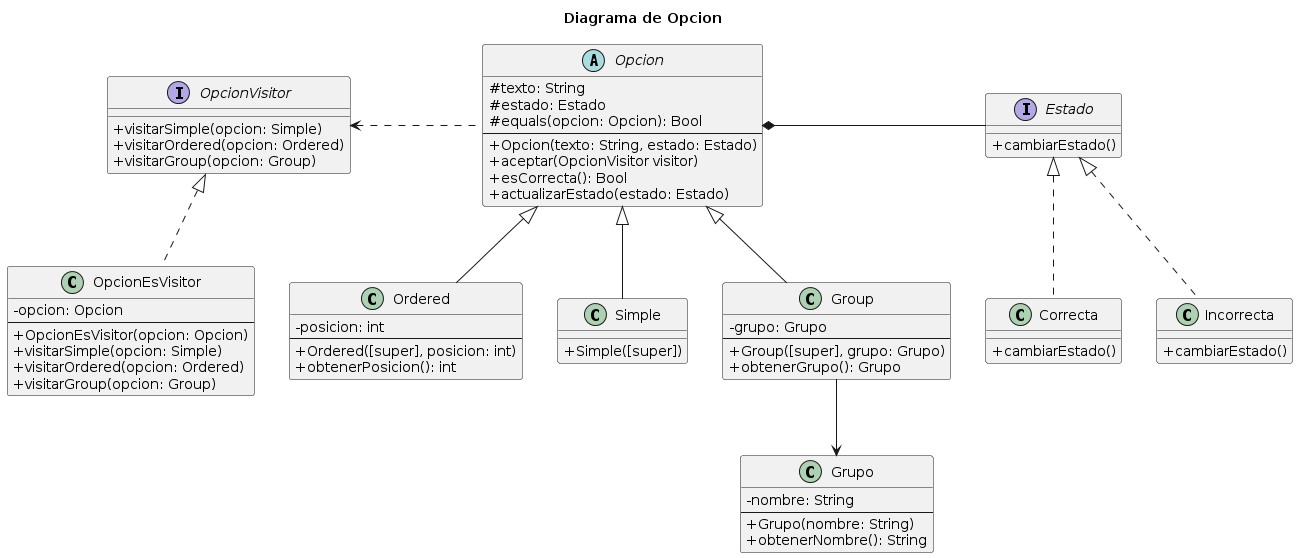
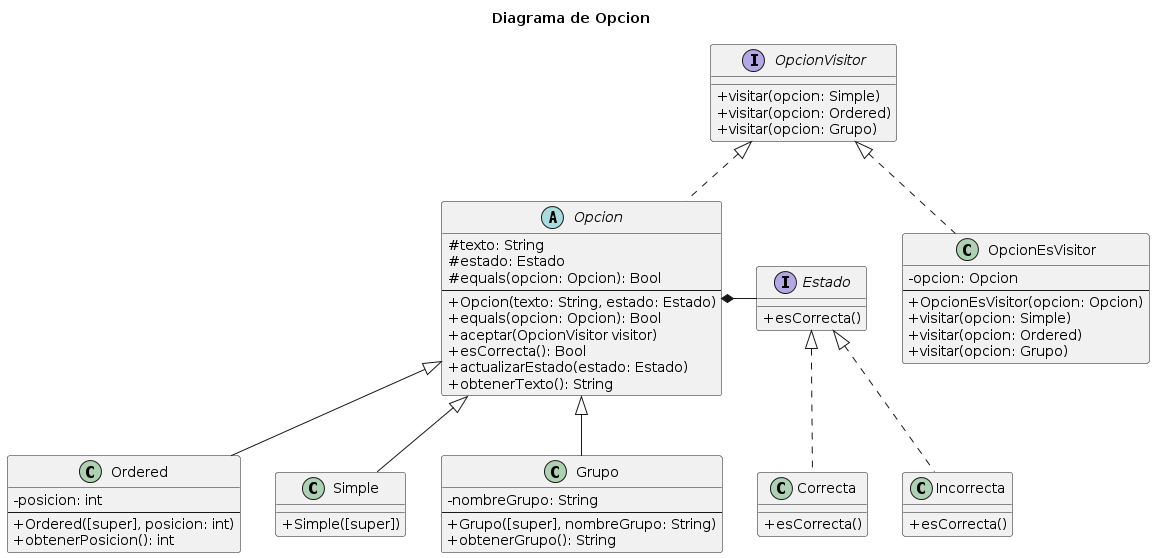
Agrego tests y diagramas

diff --git a/src/main/test/edu/fiuba/algo3/testEntrega2/OrderedTest.java b/src/main/test/edu/fiuba/algo3/testEntrega2/OrderedTest.java
@@ -1,23 +1,22 @@
-package edu.fiuba.algo3.testEntrega2.OpcionTest;
+package edu.fiuba.algo3.testEntrega2;
 
 import edu.fiuba.algo3.modelo.estado.Correcta;
 import edu.fiuba.algo3.modelo.estado.Incorrecta;
+import edu.fiuba.algo3.modelo.opcion.Grupo;
 import edu.fiuba.algo3.modelo.opcion.Opcion;
-import edu.fiuba.algo3.modelo.opcion.Simple;
 import edu.fiuba.algo3.modelo.opcion.Ordered;
 import org.junit.jupiter.api.BeforeEach;
 import org.junit.jupiter.api.Test;
-
 import static org.junit.jupiter.api.Assertions.*;
 
-public class SimpleTest {
+public class OrderedTest {
     private Opcion opcionCorrecta;
     private Opcion opcionIncorrecta;
 
     @BeforeEach
     public void setUpClass() {
-        opcionCorrecta = new Simple("Opcion 1", new Correcta());
-        opcionIncorrecta = new Simple("Opcion 1", new Incorrecta());
+        opcionCorrecta = new Ordered("Opcion 1", 1, new Correcta());
+        opcionIncorrecta = new Ordered("Opcion 1", 1, new Incorrecta());
     }
 
     @Test
@@ -39,6 +38,7 @@ public class SimpleTest {
 
         assertTrue(opcionIncorrecta.esCorrecta());
     }
+
     @Test
     public void test04CambiarElEstadoConOtraIncorrectaEstableceElEstadoIncorrecto() {
         opcionCorrecta.actualizarEstado(opcionCorrecta);
@@ -47,42 +47,42 @@ public class SimpleTest {
     }
 
     @Test
-    public void test05AceptaVisitaDeUnaOpcionSimpleConElMismoTextoYDevuelveTrue(){
+    public void test05AceptaVisitaDeUnaOpcionOrderedConLaMismaPosicionYDevuelveTrue(){
         //Arrange
-        Simple opcionVisitor = new Simple("Opcion 1", new Correcta());
+        Ordered opcionVisitor = new Ordered("Opcion 1", 1, new Correcta());
         //Assert
         assertTrue(opcionCorrecta.aceptar(opcionVisitor));
     }
 
     @Test
-    public void test06AceptaVisitaDeUnaOpcionSimpleConDistintoTextoYDevuelveFalse(){
+    public void test06AceptaVisitaDeUnaOpcionOrderedConDistintaPosicionYDevuelveFalse(){
         //Arrange
-        Simple opcionVisitor = new Simple("Verdaderont", new Correcta());
+        Ordered opcionVisitor = new Ordered("Opcion 1", 3, new Correcta());
         //Assert
         assertFalse(opcionCorrecta.aceptar(opcionVisitor));
     }
 
     @Test
-    public void test07VisitaAUnaOpcionSimpleConElMismoTextoYDevuelveTrue(){
+    public void test07VisitaAUnaOpcionOrderedConLaMismaPosicionYDevuelveTrue(){
         //Arrange
-        Simple opcionCorrecta2 = new Simple("Opcion 1", new Correcta());
+        Ordered opcionCorrecta2 = new Ordered("Opcion 1", 1, new Correcta());
         //Assert
         assertTrue(opcionCorrecta.visitar(opcionCorrecta2));
     }
 
     @Test
-    public void test08VisitaAUnaOpcionSimpleConDistintoTextoYDevuelveFalse(){
+    public void test08VisitaAUnaOpcionOrderedConDistintoTextoYDevuelveFalse(){
         //Arrange
-        Simple opcionDistintoTexto = new Simple("Opcion 1n't", new Correcta());
+        Ordered opcionDistintoTexto = new Ordered("Opcion 12", 1, new Correcta());
         //Assert
         assertFalse(opcionCorrecta.visitar(opcionDistintoTexto));
     }
 
     @Test
-    public void test09VisitaAOpcionNoSimpleYDevuelveFalse(){
+    public void test09VisitaAOpcionNoGrupoYDevuelveFalse(){
         //Arrange
-        Ordered opcionOrdered = new Ordered("Verdadero", 1, new Correcta());
+        Grupo opcionGrupo = new Grupo("Verdadero", "Grupo 3", new Correcta());
         //Assert
-        assertFalse(opcionCorrecta.visitar(opcionOrdered));
+        assertFalse(opcionCorrecta.visitar(opcionGrupo));
     }
 }

diff --git a/src/main/test/edu/fiuba/algo3/testEntrega2/GrupoTest.java b/src/main/test/edu/fiuba/algo3/testEntrega2/GrupoTest.java
@@ -1,0 +1,89 @@
+package edu.fiuba.algo3.testEntrega2;
+
+import edu.fiuba.algo3.modelo.estado.Correcta;
+import edu.fiuba.algo3.modelo.estado.Incorrecta;
+import edu.fiuba.algo3.modelo.opcion.Grupo;
+import edu.fiuba.algo3.modelo.opcion.Opcion;
+import edu.fiuba.algo3.modelo.opcion.Simple;
+import edu.fiuba.algo3.modelo.opcion.Ordered;
+import org.junit.jupiter.api.BeforeEach;
+import org.junit.jupiter.api.Test;
+import static org.junit.jupiter.api.Assertions.*;
+
+public class GrupoTest {
+    private Opcion opcionCorrecta;
+    private Opcion opcionIncorrecta;
+
+    @BeforeEach
+    public void setUpClass() {
+        opcionCorrecta = new Grupo("Opcion 1", "Grupo 1", new Correcta());
+        opcionIncorrecta = new Grupo("Opcion 1", "Grupo 1", new Incorrecta());
+    }
+
+    @Test
+    public void test01SiSeleAsignaEstadoCorrectaEsCorrecta() {
+        //Assert
+        assertTrue(opcionCorrecta.esCorrecta());
+
+    }
+
+    @Test
+    public void test02SiSeleAsignaEstadoIncorrectaNoEsCorrecta() {
+        //Assert
+        assertFalse(opcionIncorrecta.esCorrecta());
+    }
+
+    @Test
+    public void test03CambiarElEstadoConOtraCorrectaEstableceElEstadoCorrecto() {
+        opcionIncorrecta.actualizarEstado(opcionCorrecta);
+
+        assertTrue(opcionIncorrecta.esCorrecta());
+    }
+
+    @Test
+    public void test04CambiarElEstadoConOtraIncorrectaEstableceElEstadoIncorrecto() {
+        opcionCorrecta.actualizarEstado(opcionCorrecta);
+
+        assertFalse(opcionIncorrecta.esCorrecta());
+    }
+
+    @Test
+    public void test05AceptaVisitaDeUnaOpcionGrupoConElMismoGrupoYDevuelveTrue(){
+        //Arrange
+        Grupo opcionVisitor = new Grupo("Opcion 1", "Grupo 1", new Correcta());
+        //Assert
+        assertTrue(opcionCorrecta.aceptar(opcionVisitor));
+    }
+
+    @Test
+    public void test06AceptaVisitaDeUnaOpcionGrupoConDistintoGrupoYDevuelveFalse(){
+        //Arrange
+        Grupo opcionVisitor = new Grupo("Opcion 1", "Grupo 7", new Correcta());
+        //Assert
+        assertFalse(opcionCorrecta.aceptar(opcionVisitor));
+    }
+
+    @Test
+    public void test07VisitaAUnaOpcionGrupoConElMismoGrupoYDevuelveTrue(){
+        //Arrange
+        Grupo opcionCorrecta2 = new Grupo("Opcion 1", "Grupo 1", new Correcta());
+        //Assert
+        assertTrue(opcionCorrecta.visitar(opcionCorrecta2));
+    }
+
+    @Test
+    public void test08VisitaAUnaOpcionGrupoConDistintoTextoYDevuelveFalse(){
+        //Arrange
+        Grupo opcionDistintoTexto = new Grupo("Opcion 12", "Grupo 1", new Correcta());
+        //Assert
+        assertFalse(opcionCorrecta.visitar(opcionDistintoTexto));
+    }
+
+    @Test
+    public void test09VisitaAOpcionNoGrupoYDevuelveFalse(){
+        //Arrange
+        Ordered opcionOrdered = new Ordered("Verdadero", 1, new Correcta());
+        //Assert
+        assertFalse(opcionCorrecta.visitar(opcionOrdered));
+    }
+}

diff --git a/src/main/test/edu/fiuba/algo3/testEntrega2/SimpleTest.java b/src/main/test/edu/fiuba/algo3/testEntrega2/SimpleTest.java
@@ -1,0 +1,88 @@
+package edu.fiuba.algo3.testEntrega2;
+
+import edu.fiuba.algo3.modelo.estado.Correcta;
+import edu.fiuba.algo3.modelo.estado.Incorrecta;
+import edu.fiuba.algo3.modelo.opcion.Opcion;
+import edu.fiuba.algo3.modelo.opcion.Simple;
+import edu.fiuba.algo3.modelo.opcion.Ordered;
+import org.junit.jupiter.api.BeforeEach;
+import org.junit.jupiter.api.Test;
+
+import static org.junit.jupiter.api.Assertions.*;
+
+public class SimpleTest {
+    private Opcion opcionCorrecta;
+    private Opcion opcionIncorrecta;
+
+    @BeforeEach
+    public void setUpClass() {
+        opcionCorrecta = new Simple("Opcion 1", new Correcta());
+        opcionIncorrecta = new Simple("Opcion 1", new Incorrecta());
+    }
+
+    @Test
+    public void test01SiSeleAsignaEstadoCorrectaEsCorrecta() {
+        //Assert
+        assertTrue(opcionCorrecta.esCorrecta());
+
+    }
+
+    @Test
+    public void test02SiSeleAsignaEstadoIncorrectaNoEsCorrecta() {
+        //Assert
+        assertFalse(opcionIncorrecta.esCorrecta());
+    }
+
+    @Test
+    public void test03CambiarElEstadoConOtraCorrectaEstableceElEstadoCorrecto() {
+        opcionIncorrecta.actualizarEstado(opcionCorrecta);
+
+        assertTrue(opcionIncorrecta.esCorrecta());
+    }
+    @Test
+    public void test04CambiarElEstadoConOtraIncorrectaEstableceElEstadoIncorrecto() {
+        opcionCorrecta.actualizarEstado(opcionCorrecta);
+
+        assertFalse(opcionIncorrecta.esCorrecta());
+    }
+
+    @Test
+    public void test05AceptaVisitaDeUnaOpcionSimpleConElMismoTextoYDevuelveTrue(){
+        //Arrange
+        Simple opcionVisitor = new Simple("Opcion 1", new Correcta());
+        //Assert
+        assertTrue(opcionCorrecta.aceptar(opcionVisitor));
+    }
+
+    @Test
+    public void test06AceptaVisitaDeUnaOpcionSimpleConDistintoTextoYDevuelveFalse(){
+        //Arrange
+        Simple opcionVisitor = new Simple("Verdaderont", new Correcta());
+        //Assert
+        assertFalse(opcionCorrecta.aceptar(opcionVisitor));
+    }
+
+    @Test
+    public void test07VisitaAUnaOpcionSimpleConElMismoTextoYDevuelveTrue(){
+        //Arrange
+        Simple opcionCorrecta2 = new Simple("Opcion 1", new Correcta());
+        //Assert
+        assertTrue(opcionCorrecta.visitar(opcionCorrecta2));
+    }
+
+    @Test
+    public void test08VisitaAUnaOpcionSimpleConDistintoTextoYDevuelveFalse(){
+        //Arrange
+        Simple opcionDistintoTexto = new Simple("Opcion 1n't", new Correcta());
+        //Assert
+        assertFalse(opcionCorrecta.visitar(opcionDistintoTexto));
+    }
+
+    @Test
+    public void test09VisitaAOpcionNoSimpleYDevuelveFalse(){
+        //Arrange
+        Ordered opcionOrdered = new Ordered("Verdadero", 1, new Correcta());
+        //Assert
+        assertFalse(opcionCorrecta.visitar(opcionOrdered));
+    }
+}

diff --git a/src/main/test/edu/fiuba/algo3/JugadorTest.java b/src/main/test/edu/fiuba/algo3/JugadorTest.java
@@ -1,6 +1,5 @@
 package edu.fiuba.algo3;
 
-import edu.fiuba.algo3.modelo.estado.Incorrecta;
 import edu.fiuba.algo3.modelo.jugador.Jugador;
 import edu.fiuba.algo3.modelo.modificador.Modificador;
 import edu.fiuba.algo3.modelo.modificador.Multiplicador;
@@ -25,16 +24,6 @@ public class JugadorTest {
 
         jugador = new Jugador("Jugador 1", modificadores);
     }
-
-
-//    modificadores = new ArrayList<>();
-//        modificadores.add(modificador1);
-//        modificadores.add(modificador2);
-//        modificadores.add(modificador3);
-//
-//    opcion1 = new Simple("Palomas", new Incorrecta());
-//    opcion2 = new Simple("Aviones", new Incorrecta());
-
 
     @Test
     public void test01SumarPuntajeAUnJugadorSumaLosPuntosCorrectamente() {

diff --git a/src/main/test/edu/fiuba/algo3/RespuestaTest.java b/src/main/test/edu/fiuba/algo3/RespuestaTest.java
@@ -5,6 +5,7 @@ import edu.fiuba.algo3.modelo.estado.Incorrecta;
 import edu.fiuba.algo3.modelo.opcion.Opcion;
 import edu.fiuba.algo3.modelo.opcion.Simple;
 import edu.fiuba.algo3.modelo.respuesta.Respuesta;
+import edu.fiuba.algo3.modelo.respuesta.RespuestaConcreta;
 import edu.fiuba.algo3.modelo.jugador.Jugador;
 import edu.fiuba.algo3.modelo.modificador.Modificador;
 import edu.fiuba.algo3.modelo.modificador.Multiplicador;
@@ -37,6 +38,7 @@ public class RespuestaTest {
         opcionCorrecta = new Simple("Falso", new Correcta());
 
         jugador = new Jugador("Jugador 1", modificadores);
+        respuesta = new RespuestaConcreta(Arrays.asList(opcion1, opcion2), jugador, modificador);
     }
 
     @Test

diff --git a/src/main/test/edu/fiuba/algo3/ModificadorTest.java b/src/main/test/edu/fiuba/algo3/ModificadorTest.java
@@ -51,11 +51,11 @@ public class ModificadorTest {
     }
 
 
-    @Test
-    public void test04UnMultiplicadorNoEsIgualAOtroConDistintoFactor() {
-        //Assert
-        assertFalse(multiplicadorDos.equals(multiplicadorTres));
-    }
+    // @Test
+    // public void test04UnMultiplicadorNoEsIgualAOtroConDistintoFactor() {
+    //     //Assert
+    //     assertFalse(multiplicadorDos.equals(multiplicadorTres));
+    // }
 
     @Test
     public void test05UnMultiplicadorSeUsaYNoTieneMasUsos() {

diff --git a/src/main/test/edu/fiuba/algo3/EstadoTest.java b/src/main/test/edu/fiuba/algo3/EstadoTest.java
@@ -3,8 +3,6 @@ package edu.fiuba.algo3;
 import edu.fiuba.algo3.modelo.estado.Correcta;
 import edu.fiuba.algo3.modelo.estado.Estado;
 import edu.fiuba.algo3.modelo.estado.Incorrecta;
-import edu.fiuba.algo3.modelo.opcion.Opcion;
-import edu.fiuba.algo3.modelo.opcion.Simple;
 
 import org.junit.jupiter.api.Test;
 

diff --git a/src/main/java/edu/fiuba/algo3/modelo/modificador/Nulo.java b/src/main/java/edu/fiuba/algo3/modelo/modificador/Nulo.java
@@ -15,11 +15,6 @@ public class Nulo implements Modificador {
     }
 
     @Override
-    public boolean equals(Modificador modificador) {
-        return (modificador instanceof Nulo);
-    }
-
-    @Override
     public boolean tieneUsos() {
         return true;
     }

diff --git a/src/main/test/edu/fiuba/algo3/testEntrega2/MultipleChoiceTestParcial.java b/src/main/test/edu/fiuba/algo3/testEntrega2/MultipleChoiceTestParcial.java
@@ -1,4 +1,4 @@
-package edu.fiuba.algo3.testEntrega2.PreguntaTest;
+package edu.fiuba.algo3.testEntrega2;
 
 import edu.fiuba.algo3.modelo.pregunta.Pregunta;
 import edu.fiuba.algo3.modelo.pregunta.VerdaderoFalso;

diff --git a/src/main/test/edu/fiuba/algo3/testEntrega2/GrupoChoiceTest.java b/src/main/test/edu/fiuba/algo3/testEntrega2/GrupoChoiceTest.java
@@ -1,4 +1,4 @@
-package edu.fiuba.algo3.testEntrega2.PreguntaTest;
+package edu.fiuba.algo3.testEntrega2;
 
 import edu.fiuba.algo3.modelo.pregunta.Pregunta;
 import edu.fiuba.algo3.modelo.puntaje.Clasica;

diff --git a/src/main/test/edu/fiuba/algo3/testEntrega2/OrderedChoiceTest.java b/src/main/test/edu/fiuba/algo3/testEntrega2/OrderedChoiceTest.java
@@ -1,4 +1,4 @@
-package edu.fiuba.algo3.testEntrega2.PreguntaTest;
+package edu.fiuba.algo3.testEntrega2;
 
 import edu.fiuba.algo3.modelo.pregunta.Pregunta;
 import edu.fiuba.algo3.modelo.puntaje.Clasica;

diff --git a/src/main/java/edu/fiuba/algo3/modelo/opcion/Ordered.java b/src/main/java/edu/fiuba/algo3/modelo/opcion/Ordered.java
@@ -15,8 +15,6 @@ public class Ordered extends Opcion {
         return posicion;
     }
 
-
-
     @Override
     public boolean aceptar(OpcionVisitor visitor) {
         return visitor.visitar(this);
